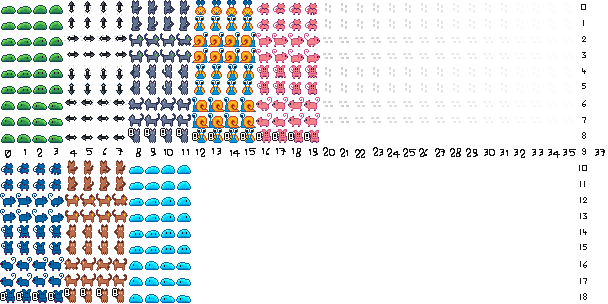
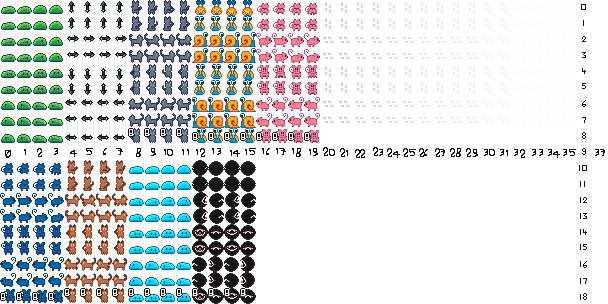
Small creeps

Changed region(s): [[0.1875, 0.5329, 0.4375, 1.0]]

diff --git a/game_core/src/features/creep_fusion.rs b/game_core/src/features/creep_fusion.rs
@@ -1,8 +1,8 @@
-use crate::{constants::SPRITE_SHEET_HUMANOIDS_1X2, entities::known_species::SPECIES_MONSTER, features::animated_sprite::AnimatedSprite, game_engine::{entity::Entity, state_updates::WorldStateUpdate, world::World}, utils::rect::IntRect};
+use crate::{constants::SPRITE_SHEET_HUMANOIDS_1X2, entities::known_species::is_monster, features::animated_sprite::AnimatedSprite, game_engine::{entity::Entity, state_updates::WorldStateUpdate, world::World}, utils::rect::IntRect};
 
 impl Entity {
     pub fn fuse_with_other_creeps_if_possible(&mut self, world: &World) -> Vec<WorldStateUpdate> {
-        if self.species_id != SPECIES_MONSTER {
+        if !is_monster(self.species_id) {
             return vec![]
         }
         if self.is_dying {

diff --git a/game_core/src/entities/known_species.rs b/game_core/src/entities/known_species.rs
@@ -19,6 +19,7 @@ pub const SPECIES_TELEPORTER: u32 = 1019;
 pub const SPECIES_ZOMBIE: u32 = 4002;
 pub const SPECIES_GHOST: u32 = 4003;
 pub const SPECIES_MONSTER: u32 = 4004;
+pub const SPECIES_SMALL_MONSTER: u32 = 1148;
 pub const SPECIES_DEEP_HOLE: u32 = 5001;
 pub const SPECIES_MR_MUGS: u32 = 1131;
 pub const SPECIES_FOOTSTEPS: u32 = 1136;
@@ -46,4 +47,8 @@ pub fn is_ammo(species_id: u32) -> bool {
 
 pub fn is_key(species_id: u32) -> bool {
     matches!(species_id, SPECIES_KEY_BLUE | SPECIES_KEY_GREEN | SPECIES_KEY_RED | SPECIES_KEY_SILVER | SPECIES_KEY_YELLOW)
+}
+
+pub fn is_monster(species_id: u32) -> bool {
+    matches!(species_id, SPECIES_MONSTER | SPECIES_SMALL_MONSTER)
 }
